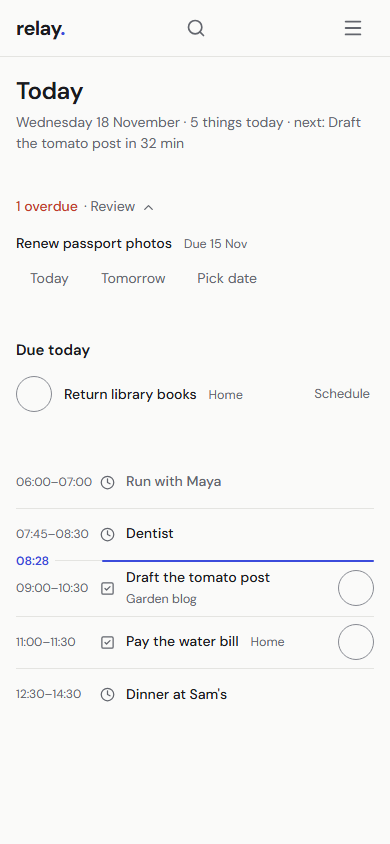
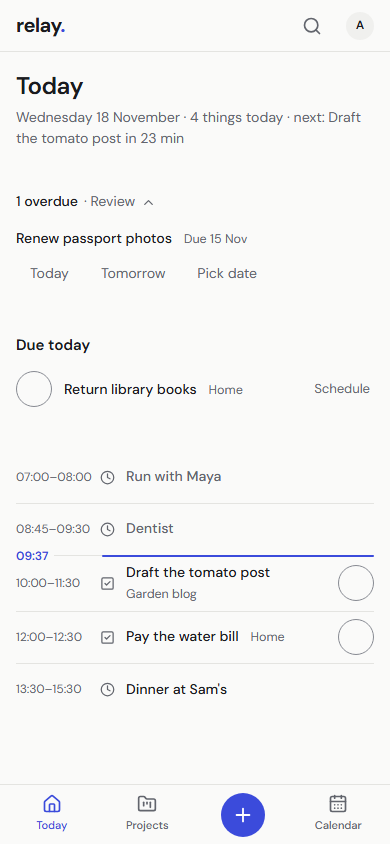
feat(shell): mobile bottom tab bar

diff --git a/src/components/navigation.tsx b/src/components/navigation.tsx
@@ -3,15 +3,14 @@
 import Link from "next/link";
 import { usePathname } from "next/navigation";
 import { createContext, useContext, useRef, useState, type ReactNode } from "react";
-import { Dialog } from "radix-ui";
 import { motion, MotionConfig } from "motion/react";
-import { House, FolderKanban, CalendarDays, Menu, X, Search, PanelLeftClose, PanelLeftOpen } from "lucide-react";
+import { House, FolderKanban, CalendarDays, Plus, Search, PanelLeftClose, PanelLeftOpen } from "lucide-react";
 import { Button } from "./ui/button";
 import { cn } from "@/lib/utils";
 import { CommandPalette } from "./command-palette";
 import { AccountMenu } from "./auth-controls";
 import { ScreenShortcuts } from "./screen-shortcuts";
-import { CaptureProvider, type CaptureData } from "./capture-dialog";
+import { CaptureProvider, useCapture, type CaptureData } from "./capture-dialog";
 
 const SidebarContext = createContext({ collapsed: false, toggle: () => {} });
 
@@ -32,55 +31,58 @@ export function Navigation({ name, initialCollapsed, projects, capture, children
   name: string; initialCollapsed: boolean; projects: { id: string; name: string }[]; capture: CaptureData; children: ReactNode;
 }) {
   const pathname = usePathname();
-  const [open, setOpen] = useState(false);
   const [collapsed, setCollapsed] = useState(initialCollapsed);
   const [searchOpen, setSearchOpen] = useState(false);
   const returnFocus = useRef<HTMLElement | null>(null);
-  const mobileTrigger = useRef<HTMLButtonElement>(null);
   function toggle() {
     const next = !collapsed;
     setCollapsed(next);
     document.cookie = `relay-sidebar=${next ? "collapsed" : "expanded"}; Path=/; Max-Age=31536000; SameSite=Lax${location.protocol === "https:" ? "; Secure" : ""}`;
   }
   const content = (scope: string) => <div className="nav-content">
-    <div className="nav-title"><Link href="/" className="wordmark" aria-label="Relay home" onClick={() => setOpen(false)}>relay<span aria-hidden="true">.</span></Link>
+    <div className="nav-title"><Link href="/" className="wordmark" aria-label="Relay home">relay<span aria-hidden="true">.</span></Link>
       <Button variant="ghost" className="sidebar-toggle" aria-label={collapsed ? "Expand sidebar" : "Collapse sidebar"} aria-expanded={!collapsed} onClick={toggle}>
         {collapsed ? <PanelLeftOpen size={18} /> : <PanelLeftClose size={18} />}
       </Button></div>
     <Button className="palette-trigger" variant="outline" aria-label="Search and commands" title="Search and commands (Ctrl/Cmd+K)" onClick={(e) => {
-      returnFocus.current = open ? mobileTrigger.current : e.currentTarget;
-      setOpen(false); setSearchOpen(true);
+      returnFocus.current = e.currentTarget; setSearchOpen(true);
     }}><Search size={17} aria-hidden="true" /><span className="nav-label">Search <kbd>Ctrl K</kbd></span></Button>
     <nav aria-label="Workspace">
       {links.map(({ href, label, icon: Icon }, i) => {
         const active = href === "/" ? pathname === "/" : pathname.startsWith(href);
         return <Link key={href} href={href} className={cn("nav-link", active && "active")} aria-label={label} title={`${label} (${i + 1})`}
-          aria-current={active ? "page" : undefined} onClick={() => setOpen(false)}>
+          aria-current={active ? "page" : undefined}>
           {active && <motion.span layoutId={`nav-indicator-${scope}`} className="nav-indicator" aria-hidden="true" transition={{ duration: 0.18, ease: "easeOut" }} />}
           <Icon size={18} aria-hidden="true" /><span className="nav-label">{label}</span></Link>;
       })}
     </nav>
-    <AccountMenu name={name} onNavigate={() => setOpen(false)} />
+    <AccountMenu name={name} />
   </div>;
   return <MotionConfig reducedMotion="user"><SidebarContext.Provider value={{ collapsed, toggle }}><CaptureProvider data={capture}><div className="workspace-shell" data-collapsed={collapsed}>
     <aside className="desktop-sidebar">{content("desktop")}</aside>
     <header className="mobile-header">
-      <Link href="/" className="wordmark">relay<span aria-hidden="true">.</span></Link>
-      <Button variant="ghost" aria-label="Search and commands" onClick={(e) => { returnFocus.current = e.currentTarget; setSearchOpen(true); }}><Search size={20} /></Button>
-      <Dialog.Root open={open} onOpenChange={setOpen}>
-        <Dialog.Trigger asChild><Button ref={mobileTrigger} variant="ghost" aria-label="Open navigation"><Menu size={22} /></Button></Dialog.Trigger>
-        <Dialog.Portal>
-          <Dialog.Overlay className="dialog-overlay" />
-          <Dialog.Content className="mobile-sidebar" aria-describedby={undefined}>
-            <Dialog.Title className="sr-only">Workspace navigation</Dialog.Title>
-            <Dialog.Close asChild><Button className="close-nav" variant="ghost" aria-label="Close navigation"><X size={22} /></Button></Dialog.Close>
-            {content("mobile")}
-          </Dialog.Content>
-        </Dialog.Portal>
-      </Dialog.Root>
+      <Link href="/" className="wordmark" aria-label="Relay home">relay<span aria-hidden="true">.</span></Link>
+      <Button variant="ghost" className="header-search" aria-label="Search and commands" onClick={(e) => { returnFocus.current = e.currentTarget; setSearchOpen(true); }}><Search size={20} /></Button>
+      <AccountMenu name={name} />
     </header>
     {children}
+    <TabBar pathname={pathname} />
     <ScreenShortcuts />
     <CommandPalette projects={projects} open={searchOpen} onOpenChange={setSearchOpen} returnFocus={returnFocus} />
   </div></CaptureProvider></SidebarContext.Provider></MotionConfig>;
+}
+
+function TabBar({ pathname }: { pathname: string }) {
+  const capture = useCapture();
+  const tab = ({ href, label, icon: Icon }: typeof links[number]) => {
+    const active = href === "/" ? pathname === "/" : pathname.startsWith(href);
+    return <Link key={href} href={href} className={cn("tab-link", active && "active")} aria-current={active ? "page" : undefined}>
+      <Icon size={20} aria-hidden="true" /><span>{label}</span></Link>;
+  };
+  return <nav className="tab-bar" aria-label="Workspace">
+    {tab(links[0])}{tab(links[1])}
+    <button type="button" className="tab-capture" aria-label="Capture" title="Capture (N)" onClick={(e) => capture.open(e.currentTarget)}>
+      <span><Plus size={22} aria-hidden="true" /></span></button>
+    {tab(links[2])}
+  </nav>;
 }

diff --git a/tests/e2e/shell.spec.ts b/tests/e2e/shell.spec.ts
@@ -40,19 +40,17 @@ test("an expired signed cookie is denied by the running application's session bo
   } finally { await context.close(); }
 });
 
-test("authenticated shell follows the system theme, is navigable, responsive, and shows exactly three screens", async ({ page }, info) => {
+test("authenticated shell follows the system theme, is navigable, responsive, and shows exactly three screens", async ({ page }) => {
   const errors: string[] = [];
   page.on("pageerror", (error) => errors.push(error.message));
   await page.goto("/");
   await expect(page.getByRole("heading", { level: 1, name: "Today" })).toBeVisible();
-  if (info.project.name === "mobile") await page.getByRole("button", { name: "Open navigation" }).click();
   const nav = page.getByRole("navigation", { name: "Workspace" });
   await expect(nav.getByRole("link")).toHaveText(["Today", "Projects", "Calendar"]);
   await nav.getByRole("link", { name: "Projects", exact: true }).click();
   await expect(page.getByRole("heading", { name: "Projects", exact: true })).toBeVisible();
   expect(await page.locator("html").evaluate((el) => getComputedStyle(el).colorScheme)).toBe(await page.evaluate(() => matchMedia("(prefers-color-scheme: dark)").matches ? "dark" : "light"));
   expect(await page.evaluate(() => document.documentElement.scrollWidth <= innerWidth)).toBe(true);
-  if (info.project.name === "mobile") await page.getByRole("button", { name: "Open navigation" }).click();
   await page.getByRole("button", { name: /^Account menu/ }).click();
   await page.getByRole("menuitem", { name: "Settings" }).click();
   await expect(page).toHaveURL(/\/settings$/);
@@ -68,13 +66,11 @@ test("old History and Chat bookmarks land on Today", async ({ page }) => {
   }
 });
 
-test("a search result for a loose task opens its panel while Inbox is hidden", async ({ page, request, baseURL }, info) => {
+test("a search result for a loose task opens its panel while Inbox is hidden", async ({ page, request, baseURL }) => {
   const title = `Loose search ${crypto.randomUUID()}`;
   expect((await request.post("/api/tasks", { headers: { origin: baseURL! }, data: { title, mutationId: crypto.randomUUID() } })).ok()).toBe(true);
   await page.goto("/");
-  if (info.project.name === "mobile") await page.getByRole("button", { name: "Open navigation" }).click();
   await expect(page.getByRole("navigation", { name: "Workspace" }).getByRole("link", { name: "Inbox" })).toHaveCount(0);
-  if (info.project.name === "mobile") await page.getByRole("button", { name: "Close navigation" }).click();
   await page.getByRole("button", { name: "Search and commands" }).first().click();
   const palette = page.getByRole("dialog", { name: "Search and commands", exact: true });
   await palette.getByLabel("Search workspace").fill(title);
@@ -99,19 +95,11 @@ test("preferences persist after reload and remain owner-isolated", async ({ page
   } finally { await bob.close(); }
 });
 
-test("keyboard focus, mobile menu Escape, and reduced motion remain usable", async ({ page }, info) => {
+test("keyboard focus and reduced motion remain usable", async ({ page }) => {
   await page.emulateMedia({ reducedMotion: "reduce" });
   await page.goto("/settings");
   await page.keyboard.press("Tab");
   await expect(page.getByRole("link", { name: "Skip to content" })).toBeFocused();
-  if (info.project.name === "mobile") {
-    const trigger = page.getByRole("button", { name: "Open navigation" });
-    await trigger.focus();
-    await page.keyboard.press("Enter");
-    await expect(page.getByRole("dialog", { name: "Workspace navigation" })).toBeVisible();
-    await page.keyboard.press("Escape");
-    await expect(trigger).toBeFocused();
-  }
   await page.getByLabel("Timezone").fill("Not/AZone");
   await page.getByRole("button", { name: "Save preferences" }).click();
   await expect(page.getByRole("alert").filter({ hasText: "Check the highlighted fields." })).toBeVisible();
@@ -222,4 +210,17 @@ test("keyboard switches screens with a sliding transition, cached revisits and n
   await page.getByRole("dialog", { name: "Search and commands", exact: true }).getByLabel("Search workspace").fill("x");
   await page.keyboard.press("Control+ArrowRight");
   await expect(page).toHaveURL(/\/$/);
+});
+
+test("mobile tab bar navigates the three screens and + opens Capture", async ({ page }, info) => {
+  test.skip(info.project.name !== "mobile", "mobile only");
+  await page.goto("/");
+  const bar = page.getByRole("navigation", { name: "Workspace" });
+  for (const [name, url] of [["Projects", /\/projects$/], ["Calendar", /\/calendar$/], ["Today", /\/$/]] as const) {
+    await bar.getByRole("link", { name, exact: true }).click();
+    await expect(page).toHaveURL(url);
+    await expect(bar.getByRole("link", { name, exact: true })).toHaveAttribute("aria-current", "page");
+  }
+  await bar.getByRole("button", { name: "Capture" }).click();
+  await expect(page.getByRole("dialog", { name: "Capture" })).toBeVisible();
 });

diff --git a/src/app/globals.css b/src/app/globals.css
@@ -162,14 +162,12 @@ progress::-moz-progress-bar { background: var(--primary); }
 .workspace-shell[data-collapsed=true] .desktop-sidebar .nav-title { padding: 0; justify-content: center; }
 .workspace-shell[data-collapsed=true] .desktop-sidebar .nav-link,
 .workspace-shell[data-collapsed=true] .desktop-sidebar .palette-trigger { justify-content: center; padding: 10px; }
-.mobile-header { display: none; }
+.mobile-header, .tab-bar { display: none; }
 .skip-link { position: fixed; left: 16px; top: -100px; padding: 10px; background: var(--primary); color: var(--primary-foreground); border-radius: 8px; z-index: var(--z-dialog); }
 .skip-link:focus { top: 12px; }
 
 /* Floating layers: the only elements with a shadow. */
 .dialog-overlay { position: fixed; inset: 0; background: var(--overlay); z-index: var(--z-overlay); }
-.mobile-sidebar { position: fixed; inset: 0 auto 0 0; width: min(300px, 88vw); background: var(--background); border-right: 1px solid var(--border); box-shadow: var(--shadow-float); z-index: var(--z-dialog); }
-.close-nav { position: absolute; top: 14px; right: 10px; }
 .form-dialog { position: fixed; inset: 16px; margin: auto; width: min(560px, calc(100vw - 32px)); height: fit-content; max-height: calc(100dvh - 32px); overflow-y: auto; background: var(--card); border: 1px solid var(--border); border-radius: 12px; padding: 28px; box-shadow: var(--shadow-float); z-index: var(--z-dialog); }
 .form-dialog > h2:first-child, .form-dialog h2 { font-size: 1.0625rem; }
 .dialog-close { position: absolute; top: 12px; right: 12px; padding: 8px; }
@@ -331,13 +329,26 @@ progress::-moz-progress-bar { background: var(--primary); }
 @media (max-width: 760px) {
   .desktop-sidebar { display: none; }
   .workspace-main { margin-left: 0; }
-  .mobile-header { height: 57px; display: flex; align-items: center; justify-content: space-between; padding: 8px 12px 8px 16px; border-bottom: 1px solid var(--border); background: var(--background); }
+  .mobile-header { height: 52px; display: flex; align-items: center; gap: 4px; padding: 4px 8px 4px 16px; border-bottom: 1px solid var(--border); background: var(--background); }
+  .mobile-header .wordmark { margin-right: auto; }
+  .mobile-header .header-search { min-width: 44px; min-height: 44px; padding: 10px; }
+  .mobile-header .nav-footer { width: auto; margin: 0; padding: 8px; min-width: 44px; justify-content: center; }
+  .mobile-header .nav-footer .nav-label { display: none; }
+  /* Bottom tab bar: chrome, not a floating layer, so a hairline and no shadow. */
+  .workspace-shell { --tab-bar-height: 60px; }
+  .workspace-main { padding-bottom: calc(var(--tab-bar-height) + env(safe-area-inset-bottom)); }
+  .tab-bar { position: fixed; inset: auto 0 0 0; z-index: var(--z-overlay); display: grid; grid-template-columns: repeat(4, 1fr); height: calc(var(--tab-bar-height) + env(safe-area-inset-bottom)); padding: 0 4px env(safe-area-inset-bottom); border-top: 1px solid var(--border); background: var(--background); }
+  .tab-link, .tab-capture { display: flex; flex-direction: column; align-items: center; justify-content: center; gap: 3px; min-height: 44px; color: var(--muted-foreground); font-size: .6875rem; font-weight: 500; transition: color .15s ease-out; }
+  .tab-link.active { color: var(--primary); }
+  .tab-capture { border: 0; background: none; cursor: pointer; }
+  .tab-capture span { width: 44px; height: 44px; display: grid; place-items: center; border-radius: 50%; background: var(--primary); color: var(--primary-foreground); }
+  .tab-capture:hover span { opacity: .9; }
+  /* The centre + is the mobile Capture action; keep one primary button per screen. */
+  .today-header > [data-capture-trigger] { display: none; }
   .page { padding: 20px 16px; }
   .page > .section + .section { margin-top: 28px; padding-top: 24px; }
   .settings-grid { grid-template-columns: 1fr; gap: 32px; }
   .project-overview { grid-template-columns: 1fr; gap: 24px; }
-  .mobile-sidebar .sidebar-toggle { display: none; }
-  .mobile-sidebar .nav-title { padding-right: 36px; }
   .page-heading { margin-bottom: 24px; }
   h1 { font-size: 1.5rem; }
   .form-dialog { padding: 24px 18px; }

diff --git a/tests/e2e/phase13.spec.ts b/tests/e2e/phase13.spec.ts
@@ -240,10 +240,8 @@ async function todayInWorkspace(request: APIRequestContext) {
 }
 
 async function openPalette(page: Page, mobile: boolean) {
-  if (mobile) {
-    await page.getByRole("button", { name: "Open navigation" }).click();
-    await page.getByRole("dialog", { name: "Workspace navigation" }).getByRole("button", { name: "Search and commands" }).click();
-  } else await page.getByRole("button", { name: "Search and commands" }).click();
+  void mobile;
+  await page.getByRole("button", { name: "Search and commands" }).first().click();
   return page.getByRole("dialog", { name: "Search and commands", exact: true });
 }
 

diff --git a/src/components/mutation-notice.tsx b/src/components/mutation-notice.tsx
@@ -4,7 +4,7 @@ import Link from "next/link";
 import { toast, Toaster } from "sonner";
 
 export function MutationNotices() {
-  return <Toaster theme="dark" closeButton duration={7000} style={{ pointerEvents: "auto", zIndex: "var(--z-toast)", fontFamily: "inherit" }} toastOptions={{
+  return <Toaster theme="dark" closeButton duration={7000} mobileOffset={{ bottom: "calc(76px + env(safe-area-inset-bottom))" }} style={{ pointerEvents: "auto", zIndex: "var(--z-toast)", fontFamily: "inherit" }} toastOptions={{
     style: { background: "var(--card)", color: "var(--foreground)", borderColor: "var(--border)" },
   }} />;
 }

diff --git a/tests/e2e/screens.spec.ts b/tests/e2e/screens.spec.ts
@@ -32,3 +32,11 @@ test("Today screen", async ({ page, request, baseURL }, info) => {
   await page.waitForTimeout(300);
   await page.screenshot({ path: `docs/phase1-screens/today-${info.project.name}.png`, fullPage: false });
 });
+
+test("Projects screen on mobile", async ({ page }, info) => {
+  test.skip(info.project.name !== "mobile", "mobile only");
+  await page.goto("/projects");
+  await expect(page.getByRole("heading", { level: 1, name: "Projects" })).toBeVisible();
+  await page.waitForTimeout(300);
+  await page.screenshot({ path: "docs/phase1-screens/projects-mobile.png", fullPage: false });
+});

diff --git a/docs/Phase 1 Progress.md b/docs/Phase 1 Progress.md
@@ -17,7 +17,7 @@ Branch `v3/phase-1-today-opus`, base `v3/phase-1-design` @ `465b217`. Plan: `doc
 - [x] 4. Today data (pure and tested)
 - [x] 5. Today screen
 - [x] 6. Capture button and `N`
-- [ ] 7. Mobile bottom tab bar
+- [x] 7. Mobile bottom tab bar (commit: see `feat(shell): mobile bottom tab bar`)
 - [ ] 8. Tests, Impeccable critique and final review
 
 ## Decisions / rulings
@@ -35,6 +35,7 @@ Branch `v3/phase-1-today-opus`, base `v3/phase-1-design` @ `465b217`. Plan: `doc
 - Task 4: `todayTimeline` keeps a crossing-midnight event's real start/end (UI clamps). Minutes to next = ceil. Done tasks due today with no event today count toward total (so finishing the only due task gives "clear"). A day with only all-day events is "active" with 0 counted. TDD: RED (module missing) -> GREEN 11/11.
 - Task 5: Today is one window-scrolling list (no grid): catch-up line, "Due today" group (Schedule links to `/calendar`), timeline with time column ("All day", "until 01:00", "from 23:00" for midnight-crossing), type icon + sr-only text, TaskComplete on task blocks. Now line is a client row (useSyncExternalStore, 30 s tick, hidden outside [earliest timed start, latest timed end]); scrolls itself into view only when no scroll position is stored. Header sentence is server-rendered (fresh on refresh). No Capture button yet (Task 6). Removed `home` from ManualCalendar, `captureKindEvent`, `date`/`captureDate` on `/`, and all `.home-*`/`.today-*`/`.quick-capture-card`/`.calendar-day-capture`/`.progress-count` CSS. Screenshots via `RELAY_SCREENSHOTS=1 npx playwright test screens` (light, 1440x900 + 390x844).
 - Task 6: one `CaptureProvider` (src/components/capture-dialog.tsx) inside Navigation hosts the Radix Capture dialog, the `N` listener (no modifiers/repeat, `isShortcutBlocked`) and `useCapture().open(trigger?)` for Task 7. Layout loads projects/tasks/timezone for it. `CaptureButton` in the Today header (primary) and the empty state (outline). `notifyMutation(response, refresh, { message, openHref })`; QuickCapture gains `onDone` and `inlineConfirmation` (palette unchanged). Closing the inline event form also closes the dialog. Focus returns to the trigger or prior focus. e2e: tests/e2e/capture.spec.ts (task check via toast Open link + API, since a dateless task is not on Today); shell.spec cache test now captures via the dialog.
+- Task 7: hamburger drawer removed. At <= 760px (existing breakpoint kept; switching to 768 would ripple through all mobile rules) a slim header holds wordmark, search and compact `AccountMenu` (Settings is in it); a fixed bottom `nav aria-label="Workspace"` has Today, Projects, accent + (Capture), Calendar in 4 equal columns, accent active state, aria-current, 44px targets, safe-area padding, hairline, no shadow. `.workspace-main` gets bottom padding; sonner `mobileOffset` clears the bar; Today header CaptureButton hidden on mobile (+ is the primary). e2e: new tab-bar test in shell.spec; drawer steps removed from shell/phase13 specs. Screens: docs/phase1-screens/today-mobile.png, projects-mobile.png.
 
 ## Commits
 
@@ -47,4 +48,4 @@ Branch `v3/phase-1-today-opus`, base `v3/phase-1-design` @ `465b217`. Plan: `doc
 
 ## Next action
 
-Task 7: mobile bottom tab bar; its `+` calls `useCapture().open(e.currentTarget)`. Task 8 must repair e2e that relied on the old Today (see task-5-report.md).
+Task 8. Task 8 must repair e2e that relied on the old Today (see task-5-report.md; phase13.spec Home tests still fail on mobile for that reason).
